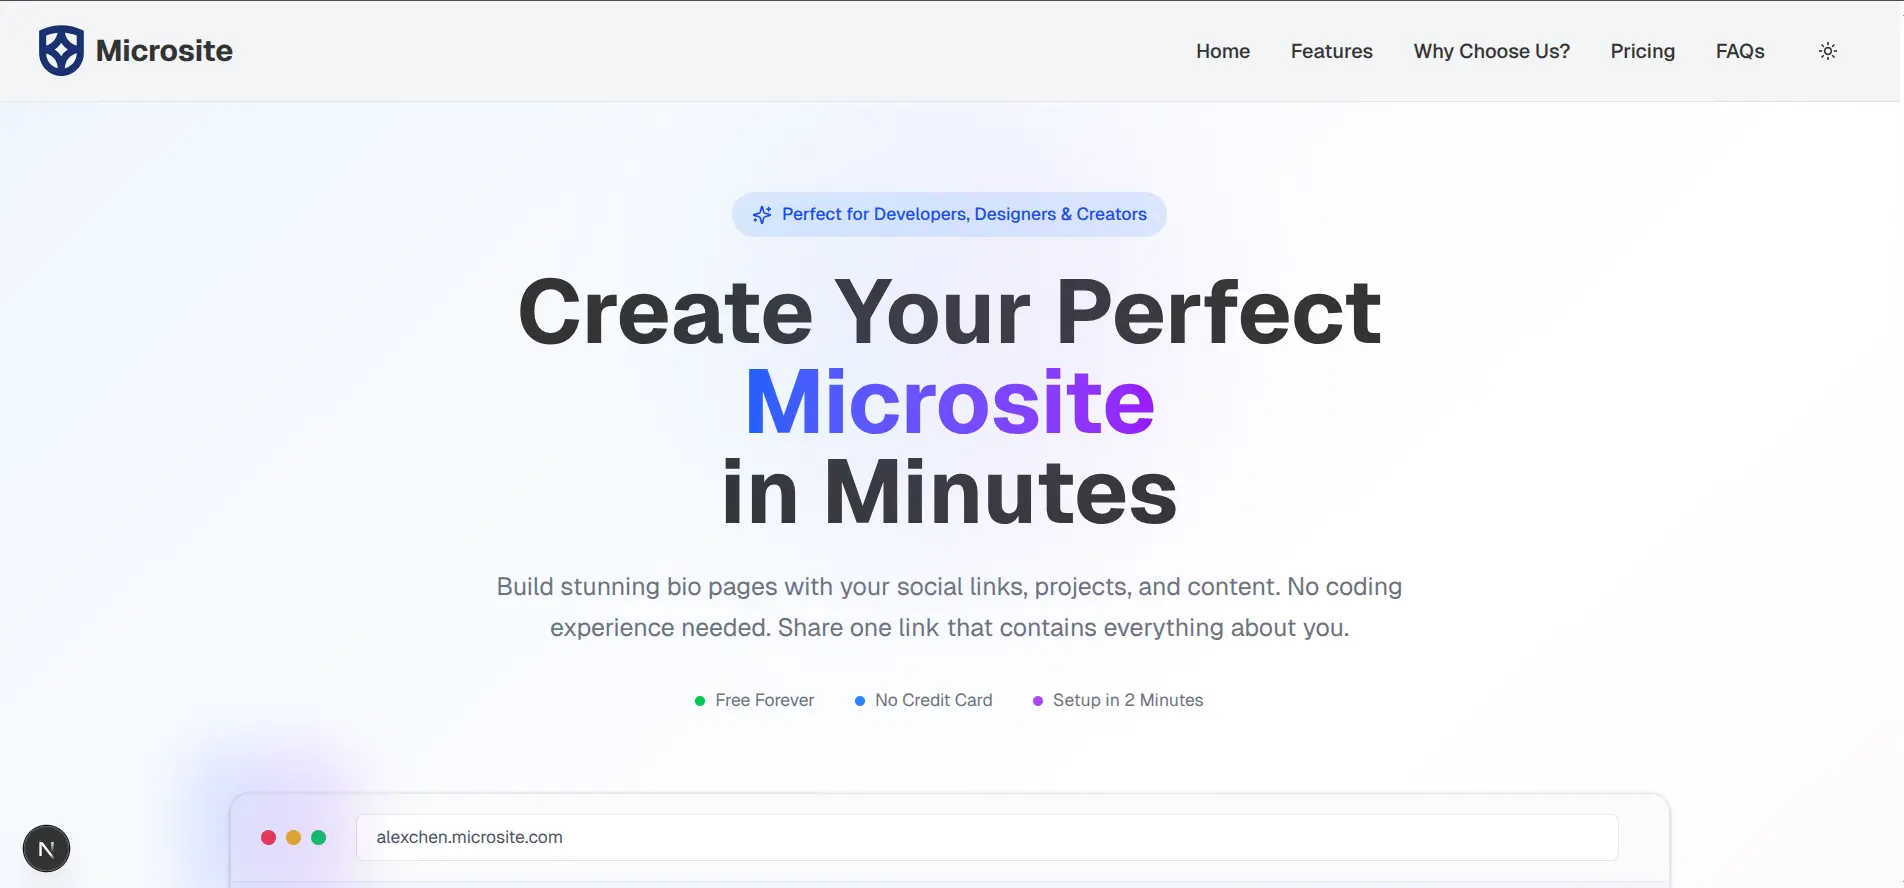
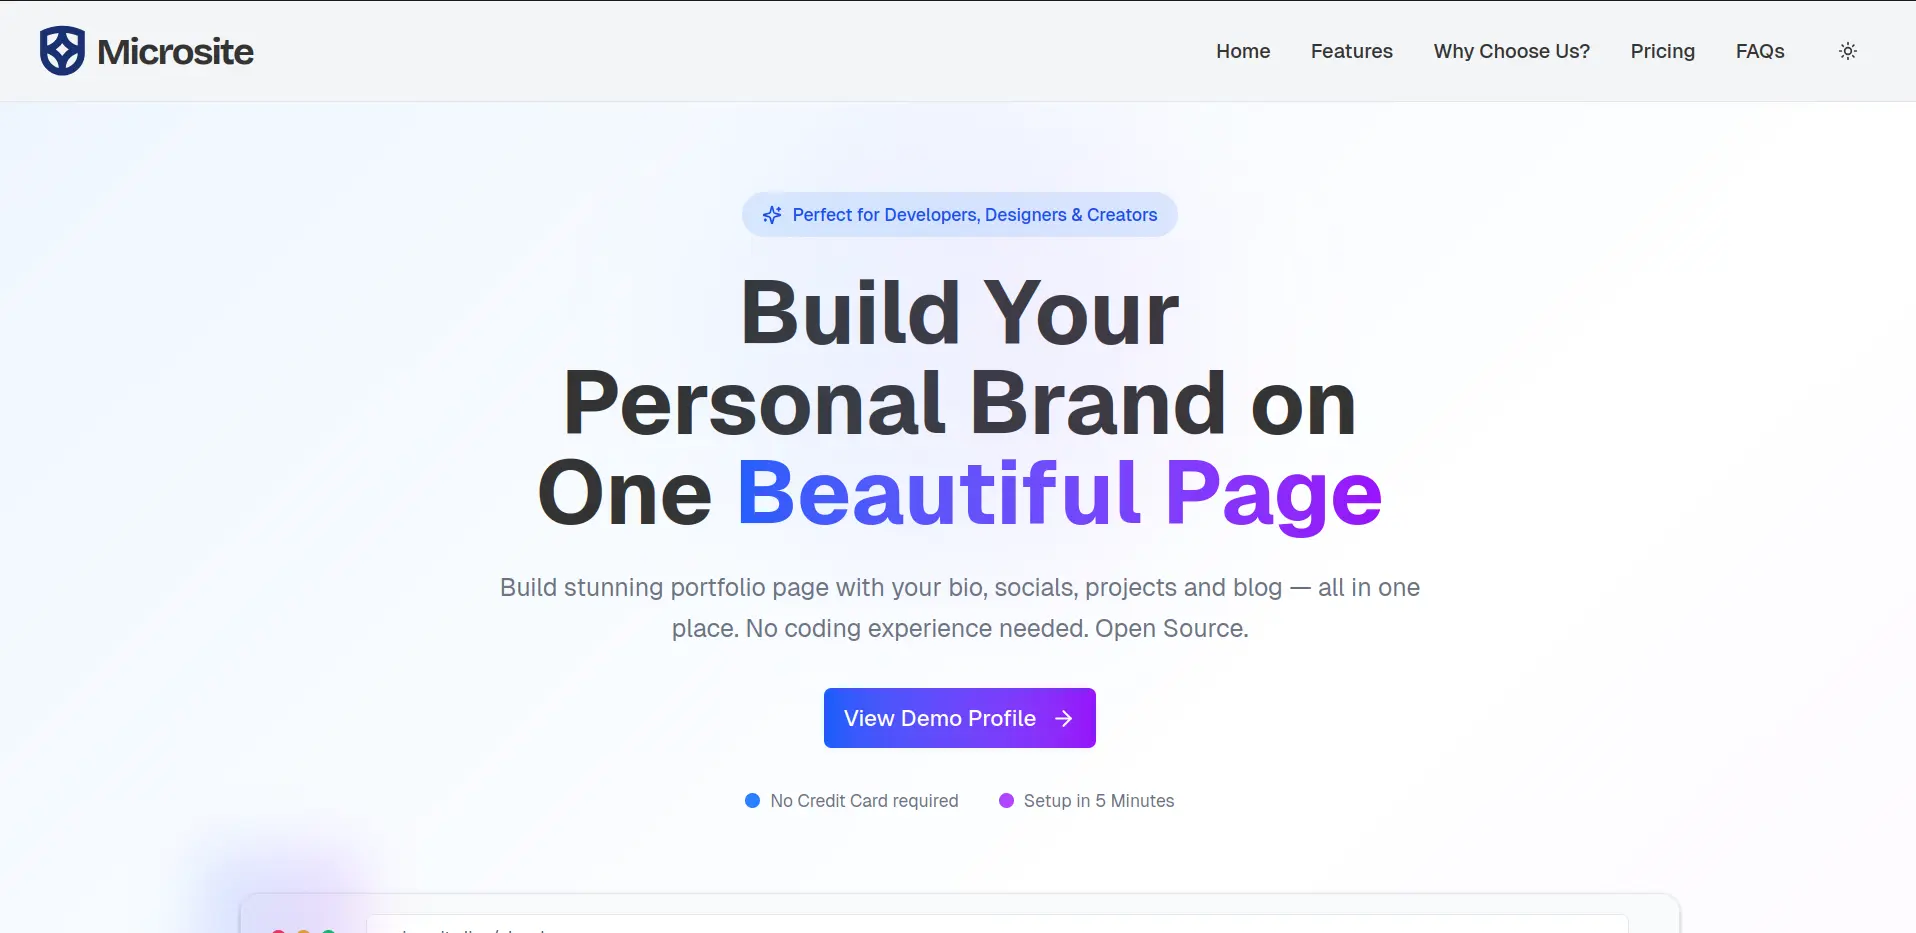
chore: changed navbar fonts and preview in readme

diff --git a/src/components/shared/navbar-landing.tsx b/src/components/shared/navbar-landing.tsx
@@ -20,7 +20,9 @@ export function NavbarLanding() {
   ];
 
   return (
-    <nav className="sticky top-0 z-50 w-full border-b backdrop-blur supports-[backdrop-filter]:bg-secondary px-4">
+    <nav
+      className={`${bricolageGrotesque.className} sticky top-0 z-50 w-full border-b backdrop-blur supports-[backdrop-filter]:bg-secondary px-4`}
+    >
       <div className="px-4">
         <div className="flex h-20 items-center justify-between">
           <Link
@@ -28,11 +30,7 @@ export function NavbarLanding() {
             className="inline-flex items-center justify-center gap-2 text-xl font-bold"
           >
             <img src="/assets/logo.svg" alt="Brand Logo" loading="lazy" />{" "}
-            <span
-              className={`${bricolageGrotesque.className} text-3xl tracking-tighter`}
-            >
-              Microsite
-            </span>
+            <span className="text-3xl tracking-tighter">Microsite</span>
           </Link>
 
           <div className="hidden md:flex items-center space-x-8">

diff --git a/src/components/shared/navbar.tsx b/src/components/shared/navbar.tsx
@@ -15,6 +15,7 @@ import {
   Bookmark,
 } from "lucide-react";
 import { useParams } from "next/navigation";
+import { bricolageGrotesque } from "@/app/ui/fonts";
 
 export function Navbar() {
   const { theme, setTheme } = useTheme();
@@ -39,7 +40,9 @@ export function Navbar() {
   ];
 
   return (
-    <nav className="sticky top-0 z-50 w-full border-b backdrop-blur supports-[backdrop-filter]:bg-secondary/60 px-2 md:rounded-full">
+    <nav
+      className={`${bricolageGrotesque.className} sticky top-0 z-50 w-full border-b backdrop-blur supports-[backdrop-filter]:bg-secondary/60 px-2 md:rounded-full`}
+    >
       <div className="px-4">
         <div className="flex h-20 items-center justify-between">
           <Link href="/" className="text-xl font-bold">
